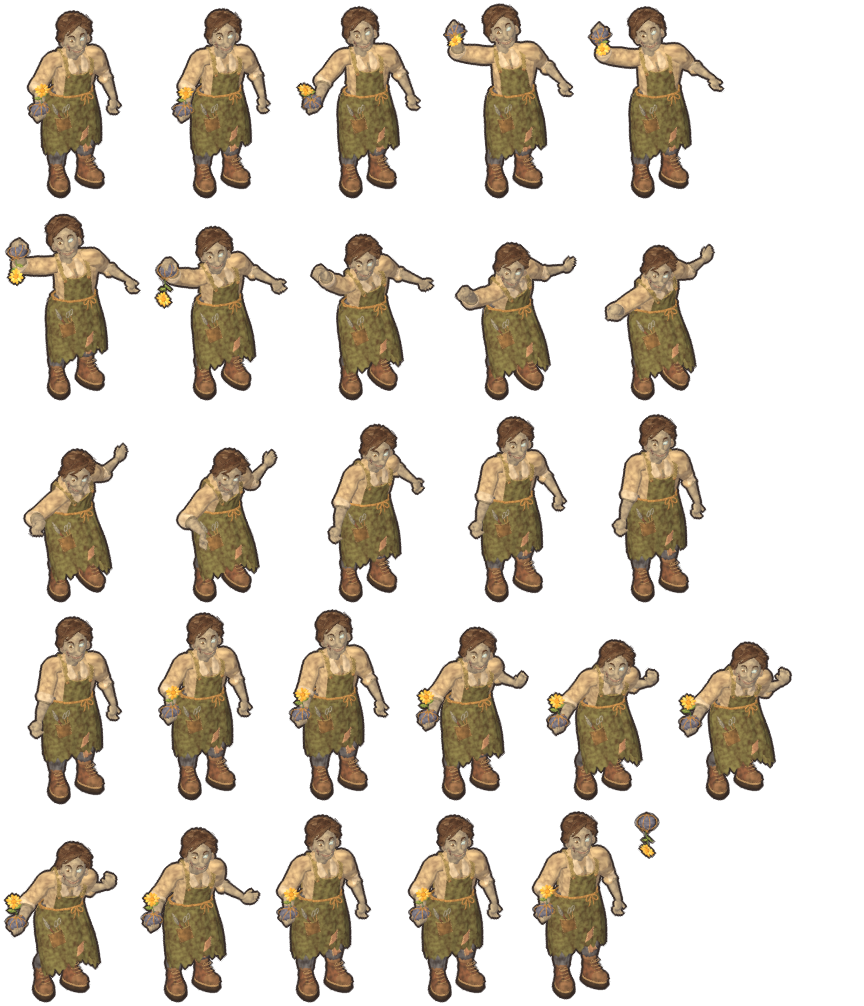
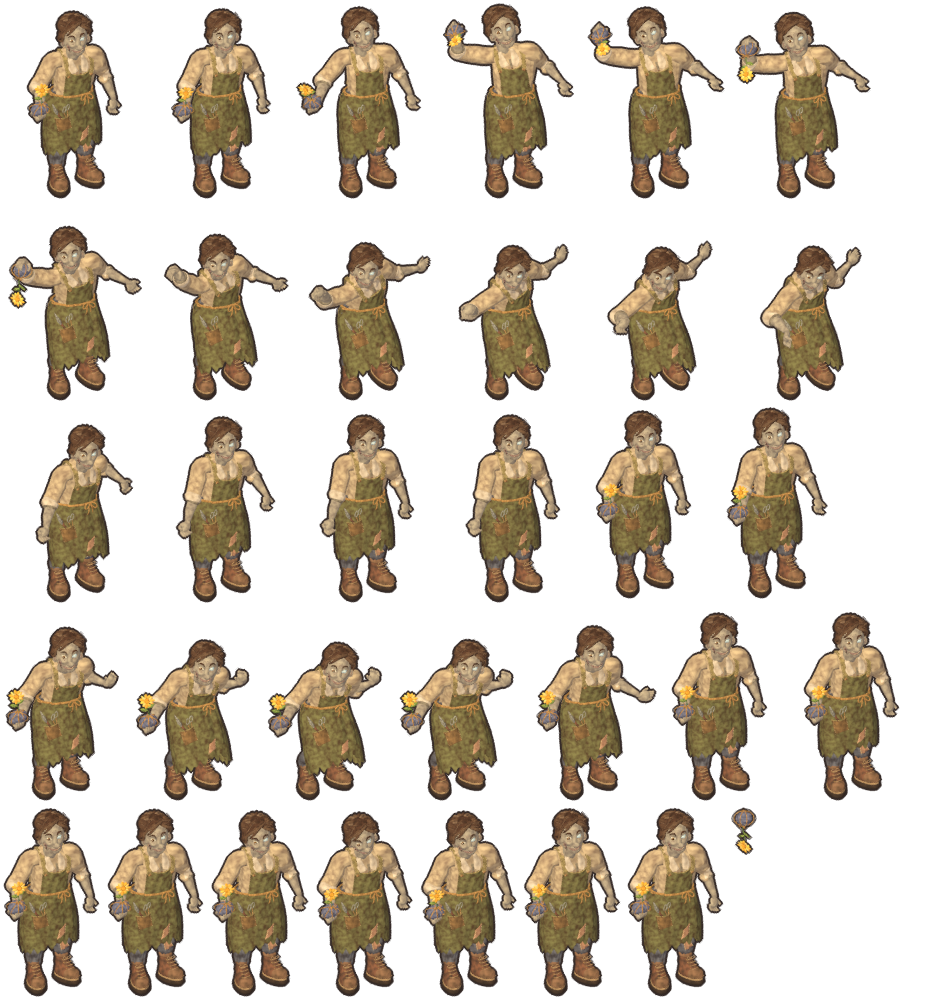
Animate the raised zombie at rest (mind-garage-9kt)

diff --git a/games/company-of-unlikely-heroes/tools/cast/ready_poses.py b/games/company-of-unlikely-heroes/tools/cast/ready_poses.py
@@ -82,4 +82,19 @@ READY_IDLES = {
         ReadyPose(31, 1, (("head", (4, 2, -6)), ("upper.R", (0, -2, 1)))),
         ReadyPose(38, 1, (("head", (1, 0, -2)),)),
     )),
+    # The head droops, then the gift-side shoulder catches up as he settles.
+    # The stone follows the closed hand; nothing touches its socket or flight.
+    "zombie": ReadyIdle("Ready", 57, (
+        ReadyPose(1, 1),
+        ReadyPose(8, 1, (("head", (3, -2, 0)),)),
+        ReadyPose(15, 1, (("chest", (1, -2, 0)), ("head", (7, -5, -2)),
+                          ("clavicle.R", (0, 1, 0)))),
+        ReadyPose(22, 1, (("chest", (2, -3, 0)), ("head", (9, -8, -3)),
+                          ("clavicle.R", (2, -2, 0)))),
+        ReadyPose(29, 1, (("chest", (2, -3, 0)), ("head", (4, -5, -2)),
+                          ("clavicle.R", (3, -3, 1)))),
+        ReadyPose(37, 1, (("chest", (0, -1, 0)), ("head", (-3, 2, 1)),
+                          ("clavicle.R", (1, -1, 0)))),
+        ReadyPose(46, 1, (("head", (-1, 1, 0)),)),
+    )),
 }

diff --git a/games/company-of-unlikely-heroes/tools/cast/takes.py b/games/company-of-unlikely-heroes/tools/cast/takes.py
@@ -104,7 +104,7 @@ TAKES = {
         ),
     },
     "zombie": {
-        "ready": ("Ready", [1], 25, True),
+        "ready": READY_IDLES["zombie"].take(),
         "say_hello": ("Say Hello", [1, 7, 12, 16, 19, 25, 30, 36, 42], 46, False),
         "offer_flower": (
             "Offer Flower",

diff --git a/games/company-of-unlikely-heroes/tools/cast/README.md b/games/company-of-unlikely-heroes/tools/cast/README.md
@@ -83,6 +83,10 @@ The full recipe also builds these loops. The staged manifest remains partial; me
 
 At Zombie Offer Flower's `release.time_ms` (875 ms; F22), stop drawing a held gift. The baked actor already has an empty hand on this and every subsequent drawing. Start the separate `gift` clip at actor ground position plus `release.offset * display_scale`, mirroring the horizontal component when the actor faces the other way. The gift clip anchor locates its **stone root**, not its feet or bounds center. Its offset comes from the evaluated authored prop root at the marker. Draw flight to the chosen target; the model's review trajectory is deliberately absent. Only a switch back to Ready restores the held gift after the throw. For a shot sequence stay on its final empty frame until that transition.
 
+## Zombie
+
+The [accepted Zombie rig](../../../../.lore/work/games/company-of-unlikely-heroes/art/models/zombie/README.md) provides the still Ready pose. The derived Ready Idle uses seven drawings over 2333 ms: the head droops, the gift-side shoulder follows, then both settle without moving the boots. The first drawing is the original Ready pose for the stationary destination stamp. The flower-tied stone stays attached to the right hand; no release or native take changes. To stage just this atlas, use the same disk-backed `bake_subset.py` and `verify_cast.py` commands above with a fresh staging directory and the single role `zombie`.
+
 ## Mixologist
 
 The `alchemist` atlas is derived from the [exact accepted Mixologist rig](../../../../.lore/work/games/company-of-unlikely-heroes/art/models/mixologist/README.md) at `5b7c52c`. Its SHA-256 is pinned in `masters.json`; that file also maps the runtime key `alchemist` to the native `Mixologist` action prefix. The recipe does not save changes to the master. The common orthographic capture uses 104.918 px/m, forward −Y and up +Z, with the projected origin at `[160, 248]` before crop. The Mixologist keeps the cast's painterly ink and registration. For her bottles only, the ink pass applies a translucent tinted shell over the original liquid colors, with stronger tint at the edges. Opaque ink on the glass hid the amber and green at board scale. No receiving hand or recipient is baked.
